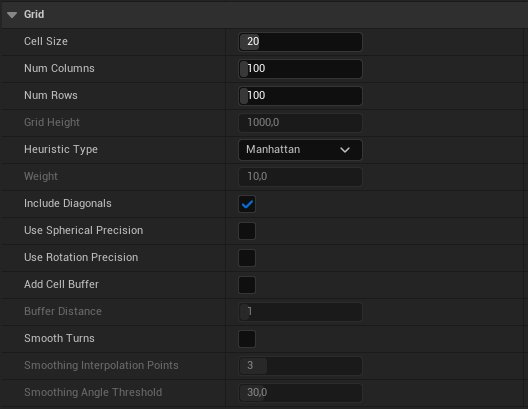
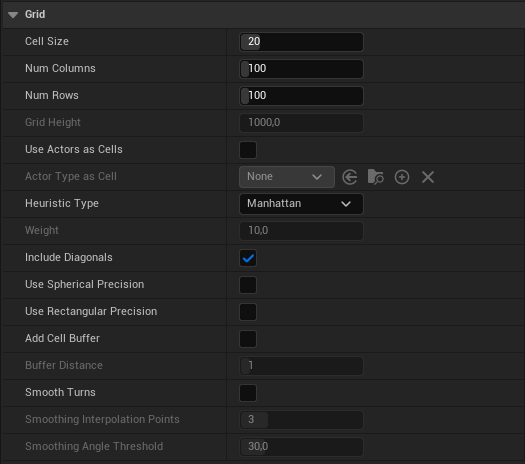
chore(docs): refresh docs

diff --git a/site/trail-blazer/the-actor/index.html b/site/trail-blazer/the-actor/index.html
@@ -753,6 +753,8 @@
 
 <h1 id="actor">Actor<a class="headerlink" href="#actor" title="Permanent link">&para;</a></h1>
 <p>This section provides an overview of the <strong>TrailBlazer</strong> actor's properties that affect the pathfinding logic and debugging.</p>
+<p>When activated, actors of a designated type will function as grid cells.</p>
+<p>Defines an actor type that should function as grid cells.</p>
 <h2 id="grid">Grid<a class="headerlink" href="#grid" title="Permanent link">&para;</a></h2>
 <p><a class="glightbox" href="../../assets/images/trail-blazer/grid.PNG" data-type="image" data-width="100%" data-height="auto" data-desc-position="bottom"><img alt="Grid" src="../../assets/images/trail-blazer/grid.PNG" /></a></p>
 <table>
@@ -783,6 +785,16 @@
 <td>Grid Height</td>
 <td>Float</td>
 <td>Specifies the vertical scope of the grid. Obstructions beyond this range will not be detected.</td>
+</tr>
+<tr>
+<td>Use Actors As Cells</td>
+<td>Boolean</td>
+<td>When activated, actors of a designated type will function as grid cells.</td>
+</tr>
+<tr>
+<td>Actor Type As Cell</td>
+<td>TSubclassOf<AActor></td>
+<td>Defines an actor type that should function as grid cells.</td>
 </tr>
 <tr>
 <td>Heuristic Type</td>

diff --git a/docs/trail-blazer/the-actor.md b/docs/trail-blazer/the-actor.md
@@ -2,6 +2,13 @@
 
 This section provides an overview of the **TrailBlazer** actor's properties that affect the pathfinding logic and debugging.
 
+
+When activated, actors of a designated type will function as grid cells.
+
+Defines an actor type that should function as grid cells.
+
+
+
 ## Grid
 
 ![Grid](../assets/images/trail-blazer/grid.PNG)
@@ -12,6 +19,8 @@ This section provides an overview of the **TrailBlazer** actor's properties that
 | Num Columns                          | Integer                          | Specifies the number of columns in the grid. Increasing this value expands the grids width.                                 |
 | Num Rows                             | Integer                          | Specifies the number of rows in the grid. Increasing this value expands the grids depth.                                     |
 | Grid Height | Float | Specifies the vertical scope of the grid. Obstructions beyond this range will not be detected. |
+| Use Actors As Cells | Boolean | When activated, actors of a designated type will function as grid cells. |
+| Actor Type As Cell | TSubclassOf<AActor> | Defines an actor type that should function as grid cells. |
 | Heuristic Type                       | Enumeration                      | Selects the type of heuristic algorithm used for calculating the pathfinding cost. Different heuristics can affect the efficiency and path quality. |
 | Weight                     | Float                            | Applies a weight to the Euclidean distance in the pathfinding calculation, influencing how straight or direct paths are.           |
 | Include Diagonals                    | Boolean                          |  This setting enables diagonal movements in pathfinding, offering a balance between simplicity and coverage. It is the most performant option, ideal for environments where precise obstacle shapes and rotations are less critical.                          |
